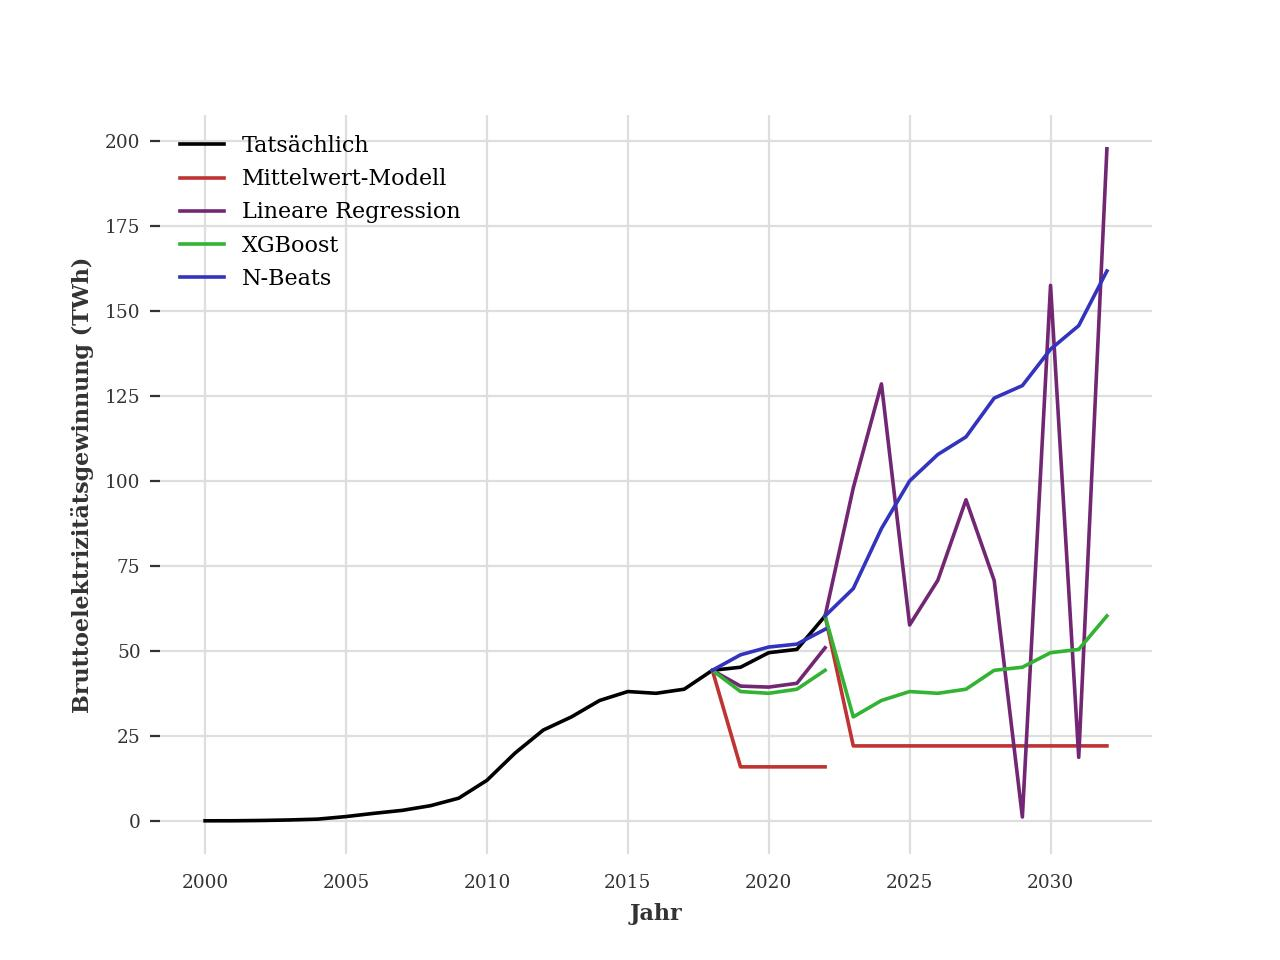
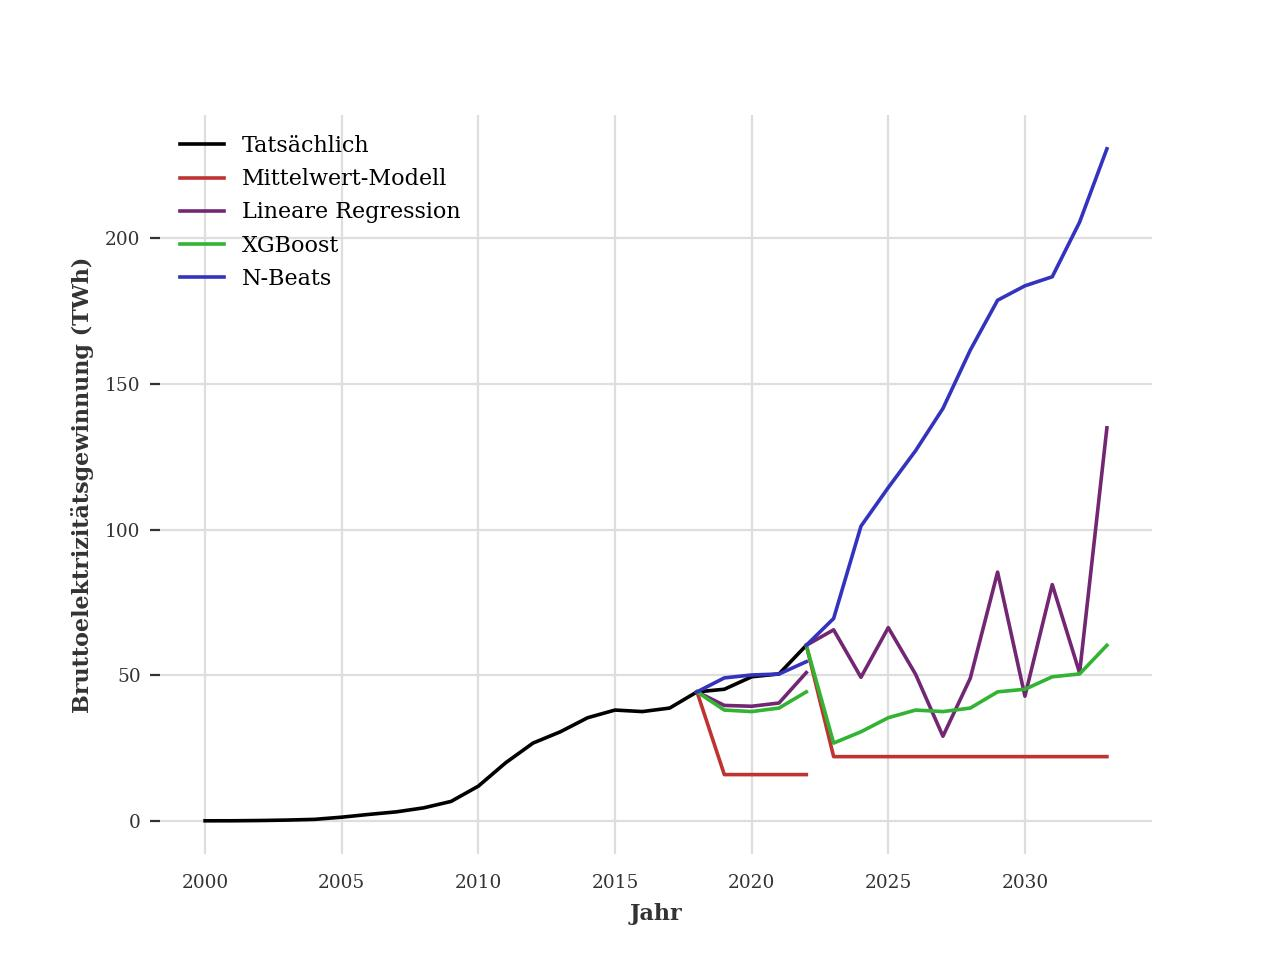
cmt

diff --git a/runmodels.py b/runmodels.py
@@ -59,7 +59,9 @@ models = [
 ] + [
     RegModel("Lineare Regression", target, list(past_covariates_partial_length.values()), list(future_covariates_partial_length.values()), TEST_TRAIN_RATIO_FULL_LENGTH),
     XGBoostModel("XGBoost", target, list(past_covariates_partial_length.values()), list(future_covariates_partial_length.values()), TEST_TRAIN_RATIO_FULL_LENGTH),
-    EnsembleBeatsModel(20, "N-Beats", target, list(past_covariates_partial_length.values()), list(future_covariates_partial_length.values()), TEST_TRAIN_RATIO_FULL_LENGTH),
+    # for testing use beatsModel, for acutal prediction the ensemble one
+    # BeatsModel("N-Beats", target, list(past_covariates_partial_length.values()), list(future_covariates_partial_length.values()), TEST_TRAIN_RATIO_FULL_LENGTH)
+    EnsembleBeatsModel(10, "N-Beats", target, list(past_covariates_partial_length.values()), list(future_covariates_partial_length.values()), TEST_TRAIN_RATIO_FULL_LENGTH),
     # EnsembleBeatsModel may not be at index 0 - does not have all ModelTemplate properties
 ]
 
@@ -85,7 +87,7 @@ plt.rcParams["font.size"] = "8"
 
 if __name__ == "__main__":
     [m.fit_test(4, (0,4)) for m in models]
-    [m.fit(10, 5, (0,5), output_chunk_len=10) for m in models]
+    [m.fit(11, 4, (0,4), output_chunk_len=11) for m in models]
     testPredictions = [m.predict_test() for m in models]
     predictions = [m.predict() for m in models]
     testDfs = [p.pd_series() for p in testPredictions]
@@ -138,7 +140,7 @@ if __name__ == "__main__":
         pred = pd.concat([pd.Series([last_full_train_val], index=[last_full_train_index]), pred])
 
         plt.plot(model.target_full.pd_series(), label="Tatsächlich")
-        plt.plot(testpred, label=model.name, color=c)
+        # plt.plot(testpred, label=model.name, color=c)
         plt.plot(pred, color=c)
         plt.xlabel("Jahr")
         plt.ylabel("Bruttoelektrizitätsgewinnung (TWh)")
